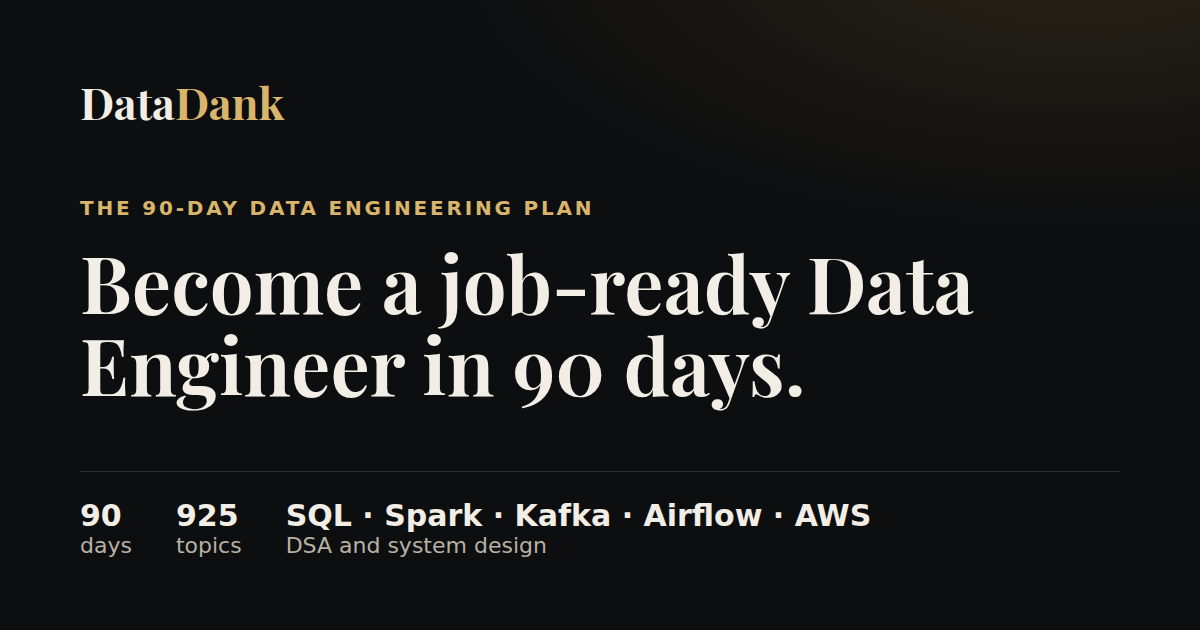
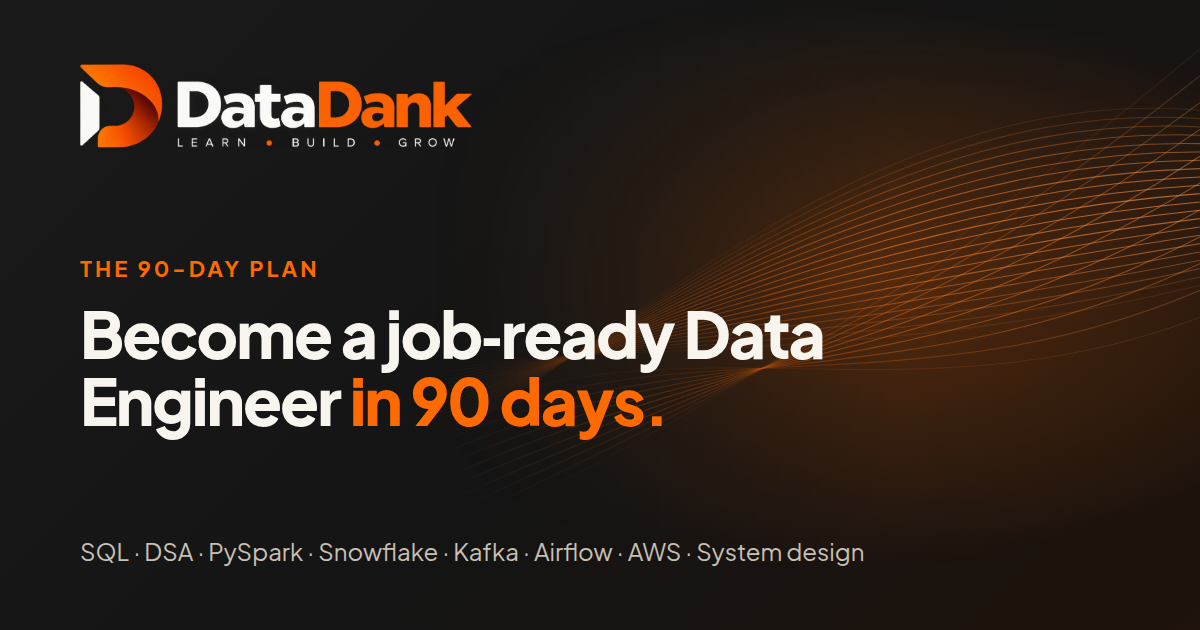
brand: Open Graph image in the orange/black brand
Claude-Session: https://claude.ai/code/session_01FngPiFDNp5EZykHFFJqGXn

diff --git a/docs/brand/og-template.html b/docs/brand/og-template.html
@@ -1,0 +1,16 @@
+<!doctype html><html><head><meta charset="utf-8"><style>
+@font-face{font-family:PJ;src:url("../../public/fonts/plus-jakarta-sans-latin-wght.woff2");font-weight:200 800}
+*{margin:0;box-sizing:border-box}
+body{width:1200px;height:630px;position:relative;overflow:hidden;background:linear-gradient(135deg,#1a1a1a 0%,#141414 55%,#1f130b 100%);color:#f8f5ef;font-family:PJ,sans-serif;padding:64px 80px;display:flex;flex-direction:column;justify-content:space-between}
+.data-flow{position:absolute;inset:0;width:100%;height:100%;-webkit-mask-image:linear-gradient(90deg,transparent 35%,#000 75%)}
+.data-flow__pulses{display:none}
+main,header,footer{position:relative}
+header img{height:84px}
+.eyebrow{color:#ff6a00;letter-spacing:.14em;text-transform:uppercase;font-weight:700;font-size:22px;margin-bottom:18px}
+h1{font-size:64px;font-weight:800;letter-spacing:-.03em;line-height:1.05;max-width:19ch}h1 span{color:#ff6a00}
+footer{font-size:24px;color:#c9c1b6}
+</style></head><body><svg class="data-flow" viewBox="0 0 1200 640" preserveAspectRatio="xMidYMid slice" aria-hidden="true" focusable="false"><defs><radialGradient id="df-glow" cx="70%" cy="45%" r="45%"><stop offset="0" stop-color="#ff6a00" stop-opacity="0.28"></stop><stop offset="1" stop-color="#ff6a00" stop-opacity="0"></stop></radialGradient><linearGradient id="df-stroke" x1="0" y1="0" x2="1" y2="0"><stop offset="0" stop-color="#e65100"></stop><stop offset="0.6" stop-color="#ff6a00"></stop><stop offset="1" stop-color="#ff9a4d"></stop></linearGradient></defs><rect width="1200" height="640" fill="url(#df-glow)"></rect><g fill="none" stroke="url(#df-stroke)" stroke-width="1.1" stroke-linecap="round"><path d="M -40 600 C 380 700 720 40 1240 120" opacity="0.12"></path><path d="M -40 595.7142857142857 C 380 680 720 58.095238095238095 1240 127.61904761904762" opacity="0.19"></path><path d="M -40 591.4285714285714 C 380 660 720 76.19047619047619 1240 135.23809523809524" opacity="0.27"></path><path d="M -40 587.1428571428571 C 380 640 720 94.28571428571428 1240 142.85714285714286" opacity="0.34"></path><path d="M -40 582.8571428571429 C 380 620 720 112.38095238095238 1240 150.47619047619048" opacity="0.40"></path><path d="M -40 578.5714285714286 C 380 600 720 130.47619047619048 1240 158.0952380952381" opacity="0.46"></path><path d="M -40 574.2857142857143 C 380 580 720 148.57142857142856 1240 165.71428571428572" opacity="0.51"></path><path d="M -40 570 C 380 560 720 166.66666666666666 1240 173.33333333333331" opacity="0.55"></path><path d="M -40 565.7142857142857 C 380 540 720 184.76190476190476 1240 180.95238095238096" opacity="0.59"></path><path d="M -40 561.4285714285714 C 380 520 720 202.85714285714286 1240 188.57142857142856" opacity="0.61"></path><path d="M -40 557.1428571428571 C 380 500 720 220.95238095238093 1240 196.1904761904762" opacity="0.62"></path><path d="M -40 552.8571428571429 C 380 480 720 239.04761904761907 1240 203.8095238095238" opacity="0.62"></path><path d="M -40 548.5714285714286 C 380 460 720 257.1428571428571 1240 211.42857142857142" opacity="0.61"></path><path d="M -40 544.2857142857143 C 380 440 720 275.23809523809524 1240 219.04761904761904" opacity="0.59"></path><path d="M -40 540 C 380 420 720 293.3333333333333 1240 226.66666666666666" opacity="0.55"></path><path d="M -40 535.7142857142857 C 380 400 720 311.42857142857144 1240 234.28571428571428" opacity="0.51"></path><path d="M -40 531.4285714285714 C 380 380 720 329.5238095238095 1240 241.9047619047619" opacity="0.46"></path><path d="M -40 527.1428571428571 C 380 360 720 347.61904761904765 1240 249.52380952380952" opacity="0.40"></path><path d="M -40 522.8571428571429 C 380 340 720 365.7142857142857 1240 257.1428571428571" opacity="0.34"></path><path d="M -40 518.5714285714286 C 380 320 720 383.8095238095238 1240 264.76190476190476" opacity="0.27"></path><path d="M -40 514.2857142857143 C 380 300 720 401.90476190476187 1240 272.3809523809524" opacity="0.19"></path><path d="M -40 510 C 380 280 720 420 1240 280" opacity="0.12"></path><path d="M 160 670 C 520 520 820 380 1240 20" opacity="0.08"></path><path d="M 160 670 C 520 485.7142857142857 820 391.42857142857144 1240 48.57142857142857" opacity="0.19"></path><path d="M 160 670 C 520 451.42857142857144 820 402.85714285714283 1240 77.14285714285714" opacity="0.28"></path><path d="M 160 670 C 520 417.14285714285717 820 414.2857142857143 1240 105.71428571428571" opacity="0.36"></path><path d="M 160 670 C 520 382.8571428571429 820 425.7142857142857 1240 134.28571428571428" opacity="0.41"></path><path d="M 160 670 C 520 348.57142857142856 820 437.1428571428571 1240 162.85714285714286" opacity="0.43"></path><path d="M 160 670 C 520 314.28571428571433 820 448.57142857142856 1240 191.42857142857142" opacity="0.43"></path><path d="M 160 670 C 520 280 820 460 1240 220" opacity="0.39"></path><path d="M 160 670 C 520 245.71428571428572 820 471.42857142857144 1240 248.57142857142856" opacity="0.32"></path><path d="M 160 670 C 520 211.42857142857144 820 482.85714285714283 1240 277.1428571428571" opacity="0.24"></path><path d="M 160 670 C 520 177.14285714285717 820 494.2857142857143 1240 305.7142857142857" opacity="0.13"></path></g><g class="data-flow__pulses" fill="none" stroke="#ffb27a" stroke-width="1.4" opacity="0.7" stroke-linecap="round"><path d="M -40 565.7142857142857 C 380 540 720 184.76190476190476 1240 180.95238095238096" pathLength="100"></path><path d="M -40 540 C 380 420 720 293.3333333333333 1240 226.66666666666666" pathLength="100"></path></g></svg>
+<header><img src="../../public/brand/datadank-logo-dark.webp"></header>
+<main><p class="eyebrow">The 90-day plan</p><h1>Become a job&#8209;ready Data Engineer <span>in 90 days.</span></h1></main>
+<footer>SQL · DSA · PySpark · Snowflake · Kafka · Airflow · AWS · System design</footer>
+</body></html>
